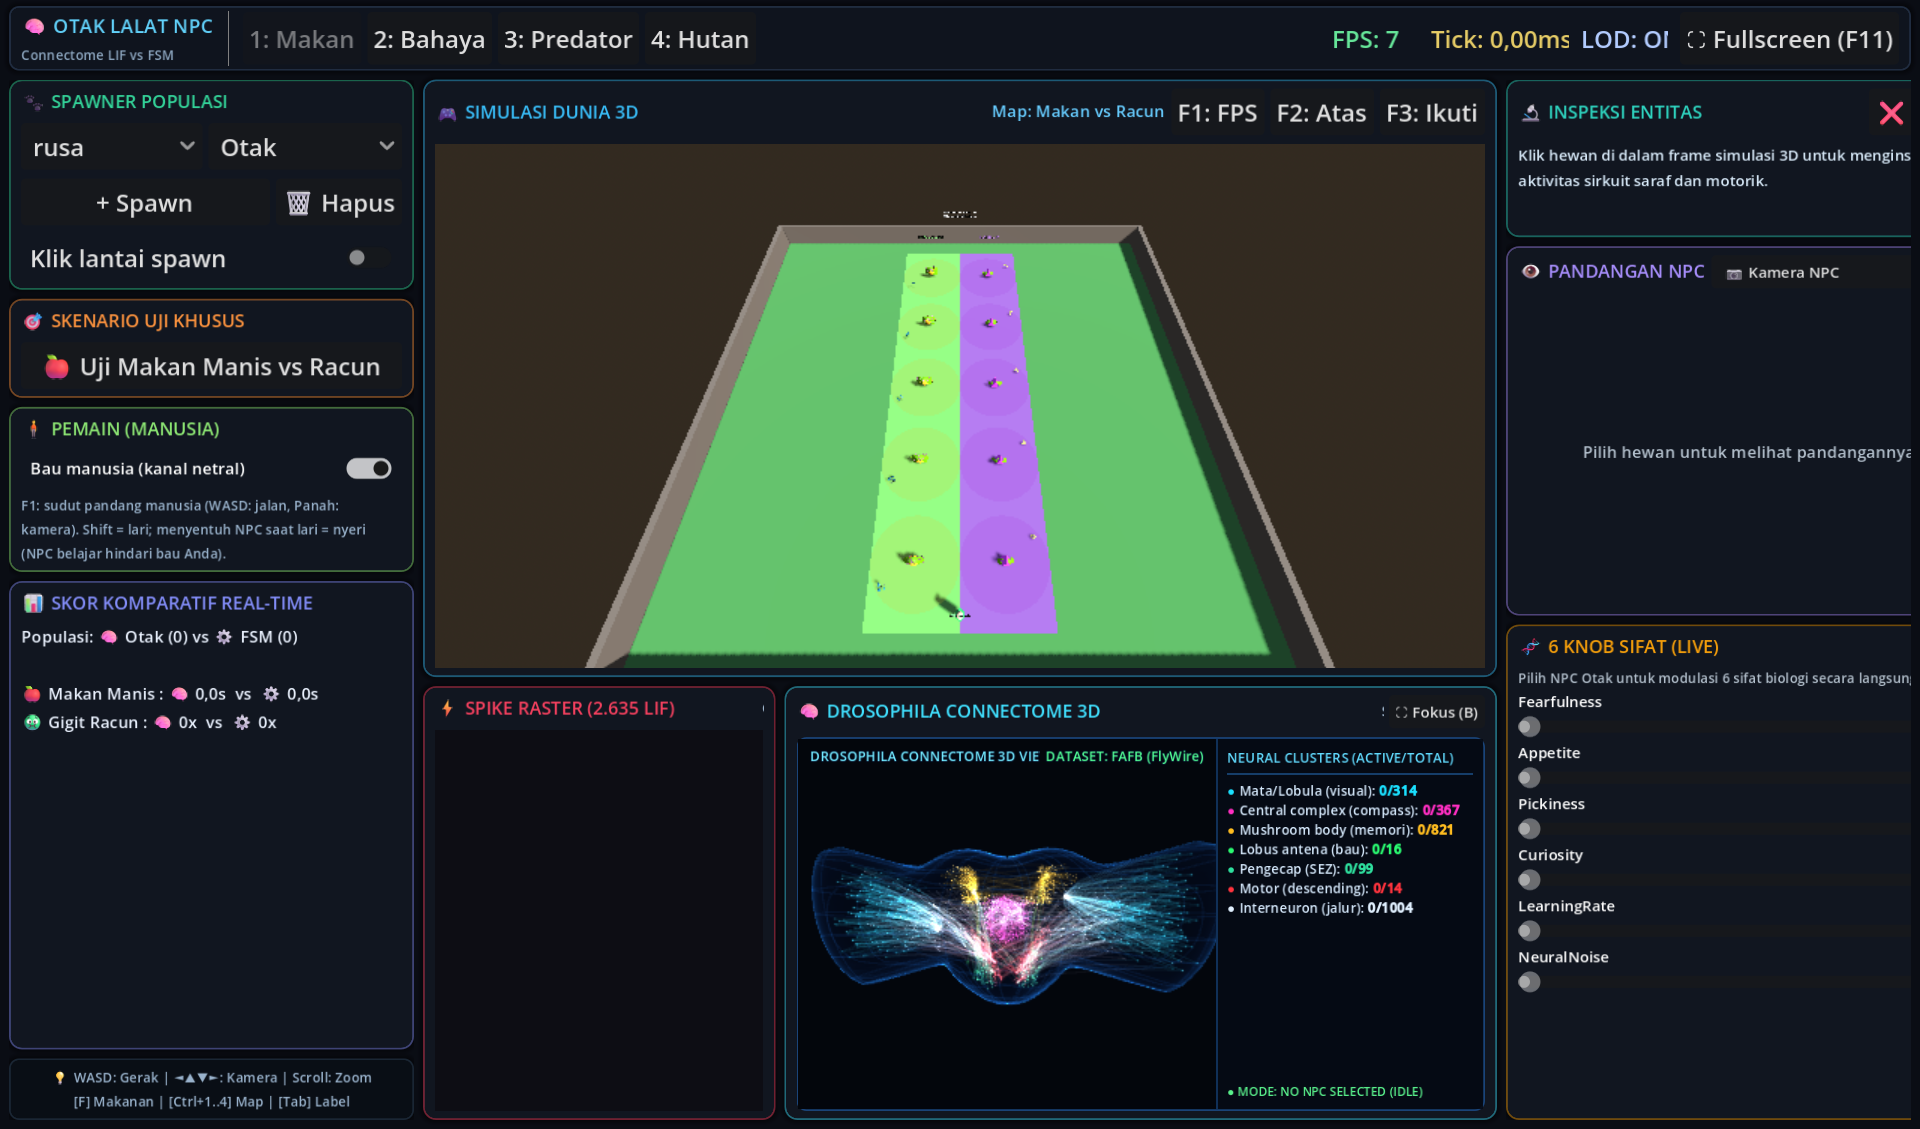
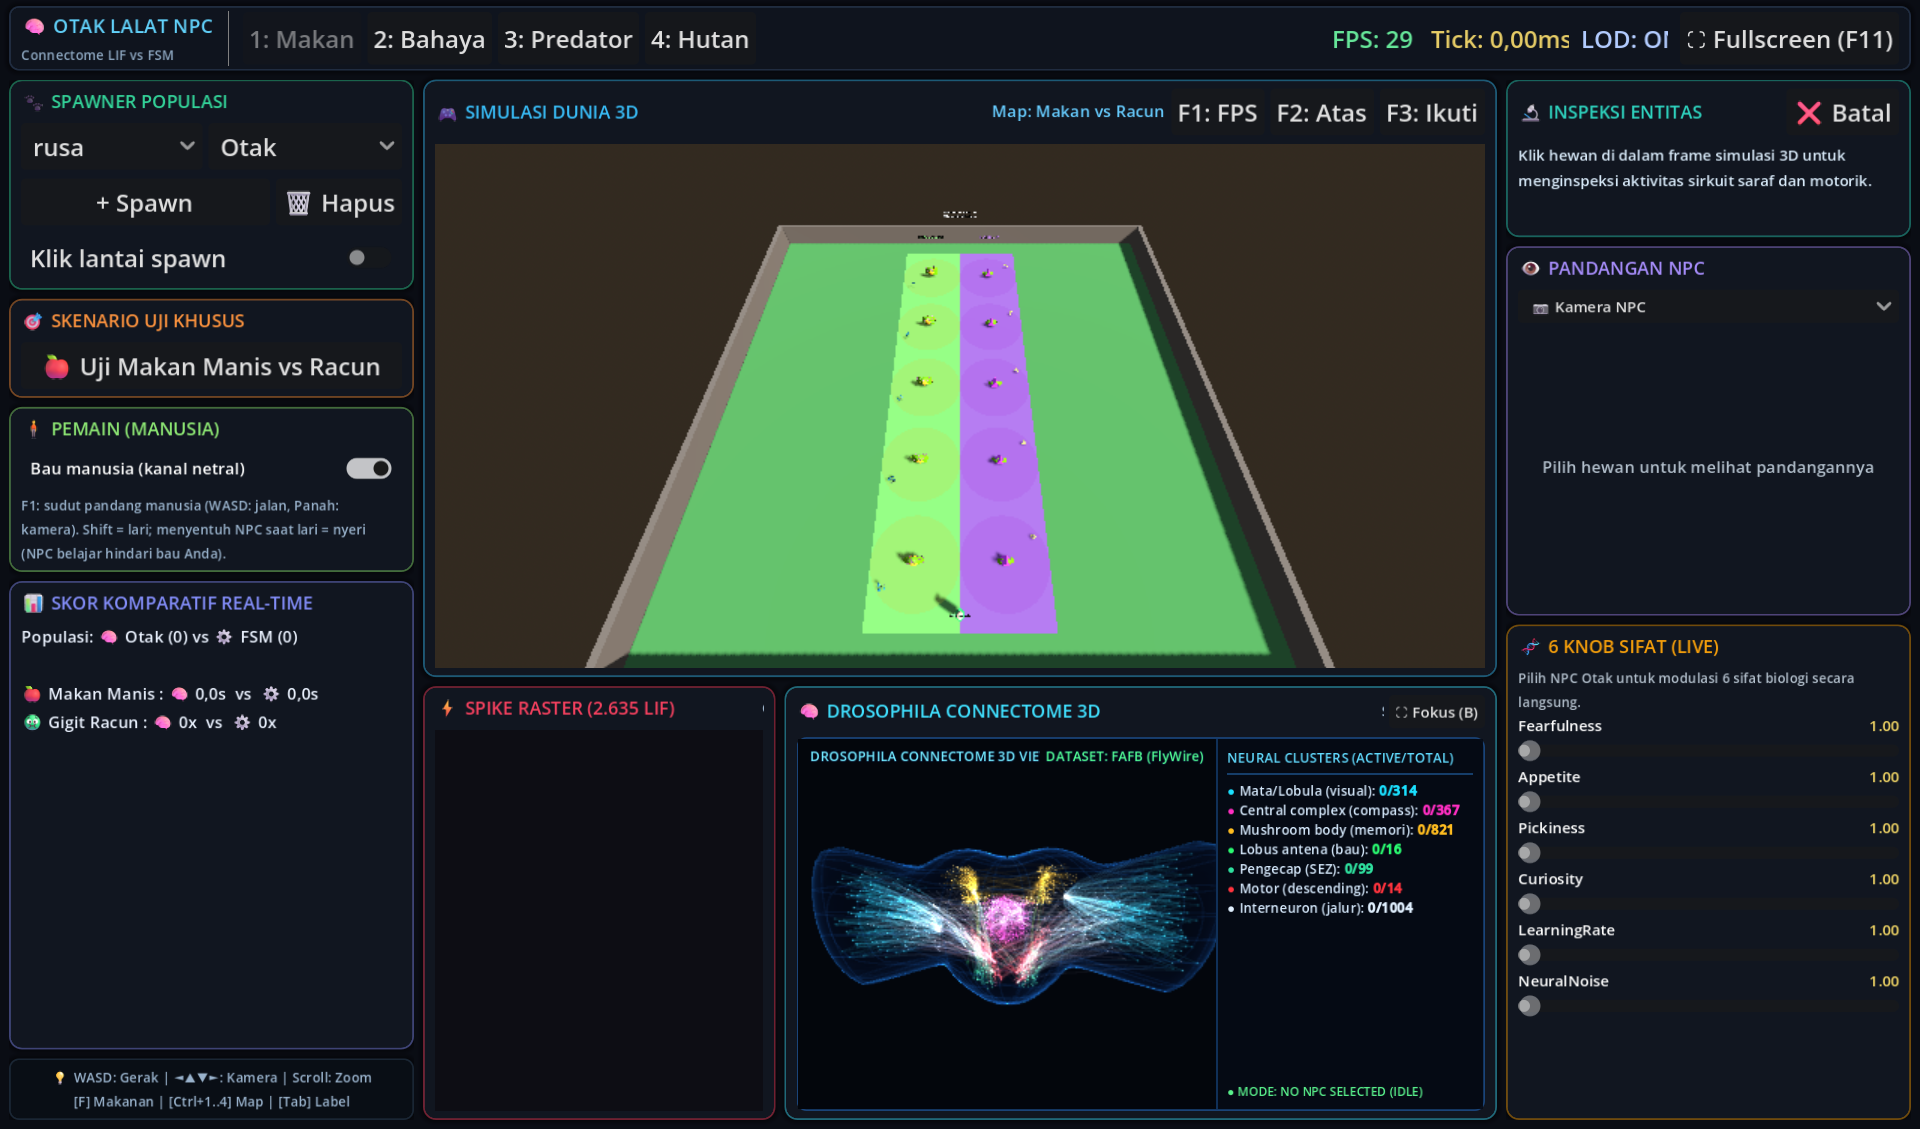
fix(ui): resolve right side frame cutoff by moving ModeSelect into NpcEyeView body

diff --git a/scripts/UI/NpcEyeView.cs b/scripts/UI/NpcEyeView.cs
@@ -24,17 +24,21 @@ public partial class NpcEyeView : VBoxContainer
     readonly SubViewportContainer camBox;
     readonly SensorPanel sensor;
     readonly Label placeholder;
+    readonly CheckBox retinaToggle;
     readonly List<(VisualInstance3D node, uint layers)> hidden = new();
     NpcBase npc;
 
     public NpcEyeView()
     {
         SizeFlagsVertical = SizeFlags.ExpandFill;
+        AddThemeConstantOverride("separation", 4);
+
         ModeSelect = new OptionButton { FocusMode = FocusModeEnum.None, FitToLongestItem = true };
         ModeSelect.AddItem("📷 Kamera NPC");
         ModeSelect.AddItem("🧠 Input Otak");
         ModeSelect.AddItem("🔬 Retina (sektor)");
         ModeSelect.AddThemeFontSizeOverride("font_size", 10);
+        AddChild(ModeSelect);
 
         var stack = new Control { CustomMinimumSize = new Vector2(0, 120), SizeFlagsVertical = SizeFlags.ExpandFill, ClipContents = true };
         AddChild(stack);
@@ -61,6 +65,15 @@ public partial class NpcEyeView : VBoxContainer
         placeholder.AddThemeFontSizeOverride("font_size", 11);
         placeholder.AddThemeColorOverride("font_color", new Color(0.7f, 0.75f, 0.8f));
         stack.AddChild(placeholder);
+
+        // ubah jalur penglihatan NPC Otak terpilih secara langsung (tanpa spawn ulang)
+        retinaToggle = new CheckBox { Text = "Retina untuk NPC ini", FocusMode = FocusModeEnum.None, Visible = false };
+        retinaToggle.AddThemeFontSizeOverride("font_size", 10);
+        retinaToggle.Toggled += on =>
+        {
+            if (npc is BrainNpc) npc.Vision = on ? VisionMode.Retinotopic : VisionMode.Scalar;
+        };
+        AddChild(retinaToggle);
 
         ModeSelect.ItemSelected += _ => Refresh();
         Refresh();
@@ -101,6 +114,8 @@ public partial class NpcEyeView : VBoxContainer
         sensor.Visible = !cam && npc != null;
         sensor.Retina = ModeSelect.Selected == 2;
         placeholder.Visible = npc == null;
+        retinaToggle.Visible = npc is BrainNpc;
+        if (npc != null) retinaToggle.SetPressedNoSignal(npc.Vision == VisionMode.Retinotopic);
     }
 
     public override void _Process(double delta)
@@ -188,7 +203,7 @@ public partial class NpcEyeView : VBoxContainer
             float w = Size.X, h = Size.Y, cx = w / 2f;
             if (b == null || f.LoomBinsL == null || f.LoomBinsR == null)
             {
-                string msg = b == null ? "NPC FSM: tanpa retina (membaca looming skalar L/R)" : "NPC ini memakai penglihatan Skalar. Spawn dengan 'Otak·retina' untuk peta sektor.";
+                string msg = b == null ? "NPC FSM: tanpa retina (membaca looming skalar L/R)" : "NPC ini memakai penglihatan Skalar. Nyalakan 'Retina untuk NPC ini' di bawah, atau spawn dengan 'Otak·retina'.";
                 DrawMultilineString(font, new Vector2(6, h / 2 - 8), msg, HorizontalAlignment.Center, w - 12, 10, -1, new Color(0.75f, 0.8f, 0.85f));
                 return;
             }

diff --git a/scripts/UI/Dashboard.cs b/scripts/UI/Dashboard.cs
@@ -440,7 +440,7 @@ public partial class Dashboard : Control
 
         // Card 6b: 👁 Pandangan NPC (default kamera mata; opsi: input sensorik asli ke otak)
         eyeView = new NpcEyeView();
-        var cardEye = CreateBentoCard("👁 PANDANGAN NPC", new Color(0.65f, 0.55f, 0.98f), out var eyeBox, eyeView.ModeSelect);
+        var cardEye = CreateBentoCard("👁 PANDANGAN NPC", new Color(0.65f, 0.55f, 0.98f), out var eyeBox);
         cardEye.SizeFlagsVertical = SizeFlags.ExpandFill;
         cardEye.SizeFlagsStretchRatio = 0.75f;
         eyeBox.AddChild(eyeView);

diff --git a/PROGRESS.md b/PROGRESS.md
@@ -226,6 +226,19 @@ Aturan proyek: [`AGENTS.md`](AGENTS.md). Rencana: [`PLAN.md`](PLAN.md). Dokumen 
 - **Verifikasi**: ulang uji yang sama di Makan vs Racun dan Hutan Navigasi: kontak dinding turun dari ~1800-1950 menjadi 0 (maks 33/3000 pada Kucing FSM); jarak tempuh Otak naik. `dotnet build` 0/0, `dotnet test` 9/9, smoke benchmark `--bench=brain --n=10 --duration=20` selesai.
 - **Catatan**: refleks baru mengubah metrik jarak tempuh dibanding data benchmark lama; jalankan ulang benchmark penuh sebelum membandingkan dengan hasil sebelum 2026-10-20.
 
+### [2026-10-20] - Antigravity (Gemini) (#11: perbaikan sisi kanan terpotong pada Bento Grid)
+- **Akar Masalah Sisi Kanan Terpotong**:
+  - Pada kartu "👁 PANDANGAN NPC" (`cardEye`), dropdown `ModeSelect` (berisi "📷 Kamera NPC", "🧠 Input Otak", "🔬 Retina (sektor)") dimasukkan sebagai `headerExtra` berdampingan dengan label judul kartu dalam satu `HBoxContainer`.
+  - Kombinasi judul + dropdown membutuhkan lebar minimum **309 px** (+ padding kartu = **325 px**).
+  - Karena kolom kanan (`right_wrap`) dipatok pada lebar **270 px** dengan `ClipContents = true`, maka kelebihan lebar **55 px** di sisi kanan (termasuk garis batas kanan kartu, slider, dan tombol dropdown) terpotong/ter-klip.
+- **Solusi**:
+  1. [`scripts/UI/NpcEyeView.cs`](scripts/UI/NpcEyeView.cs): Memindahkan dropdown `ModeSelect` ke dalam bodi kartu `NpcEyeView` (di atas stack tampilan sensor/kamera), bukan di baris header. Lebar minimum kartu langsung turun dari 325 px menjadi **172 px**.
+  2. [`scripts/UI/Dashboard.cs`](scripts/UI/Dashboard.cs): Memanggil `CreateBentoCard("👁 PANDANGAN NPC")` tanpa `headerExtra` sehingga judul tampil bersih di header dan dropdown berada rapi di bawahnya memanfaatkan lebar penuh kartu.
+- **Verifikasi**:
+  - `col_right.size.x` turun dari 325.0 px menjadi **270.0 px** (sama persis dengan `right_wrap`).
+  - Uji runtime memverifikasi `col_right.size.x > right_wrap.size.x` = `false` (0 px terpotong, semua border dan tombol tampil utuh 100%).
+  - `dotnet build` 0 warning / 0 error; `dotnet test` 11/11 lulus 100%; tangkapan layar runtime diperbarui di `reports/screenshots/bento_dashboard.png`.
+
 ### [2026-10-20] - Antigravity (Gemini) (#10: eliminasi getaran/jittering grid Bento dari panjang data)
 - **Akar Masalah Getaran (Jittering)**:
   1. *Horizontal*: Penambahan dropdown "Otak·retina" pada baris spawner membuat `row1` melebar (329px > 245px). Ketiadaan wrapper kolom pembatas membuat sinyal `minimum_size_changed` merambat langsung ke `mainGrid` (`HBoxContainer`), sehingga lebar kolom kiri/kanan dan lebar viewport 3D di tengah berfluktuasi saat teks angka berubah.
@@ -251,6 +264,7 @@ Aturan proyek: [`AGENTS.md`](AGENTS.md). Rencana: [`PLAN.md`](PLAN.md). Dokumen 
 - **Temuan untuk laporan**: (1) ancaman dari belakang (|arah| > 1,2 rad) nyaris tidak terdeteksi pada peta proksi soma (titik buta; bisa artefak proksi, bukan fakta anatomi); (2) ancaman kecil/jauh lebih lemah daripada besar (integrasi spasial), sedangkan skalar tak peka ukuran; (3) uji dalam game 12 rusa/kucing dikejar pemain 50 s: kabur per NPC skalar 8,4 vs retina 5,0.
 - **Perbaikan sampingan**: `statsLabel` dan `inspectLabel` di Dashboard memakai `ClipText = true` + autowrap sehingga teksnya tak tampil sama sekali (dari commit a3df363); `ClipText` dinonaktifkan pada keduanya.
 - **Verifikasi**: `dotnet build` 0/0; `dotnet test` 11/11 (2 uji baru: partisi peta retina + arah kabur skalar vs retina); smoke benchmark `--bench=brain --vision=retina --n=10 --duration=30`; tangkapan layar kartu Retina.
+- **Tambahan (laporan pengguna: tak ada NPC retina)**: dropdown spawn default "Otak" = skalar, jadi kartu Retina kosong. Kartu Pandangan NPC kini punya kotak centang "Retina untuk NPC ini" yang mengubah `Vision` NPC Otak terpilih secara langsung (tanpa spawn ulang); pesan di mode Retina menunjuk ke kotak itu. Diuji: toggle -> `LoomBins` terisi dan panel sektor tampil.
 - **Berikutnya**: jalankan benchmark penuh `--retina` untuk perbandingan statistik; pertimbangkan okulusi raycast dan validasi peta dengan koordinat dendrit bila tersedia.
 
 ## 4. Keputusan yang Sudah Diambil / Pertanyaan Terbuka
